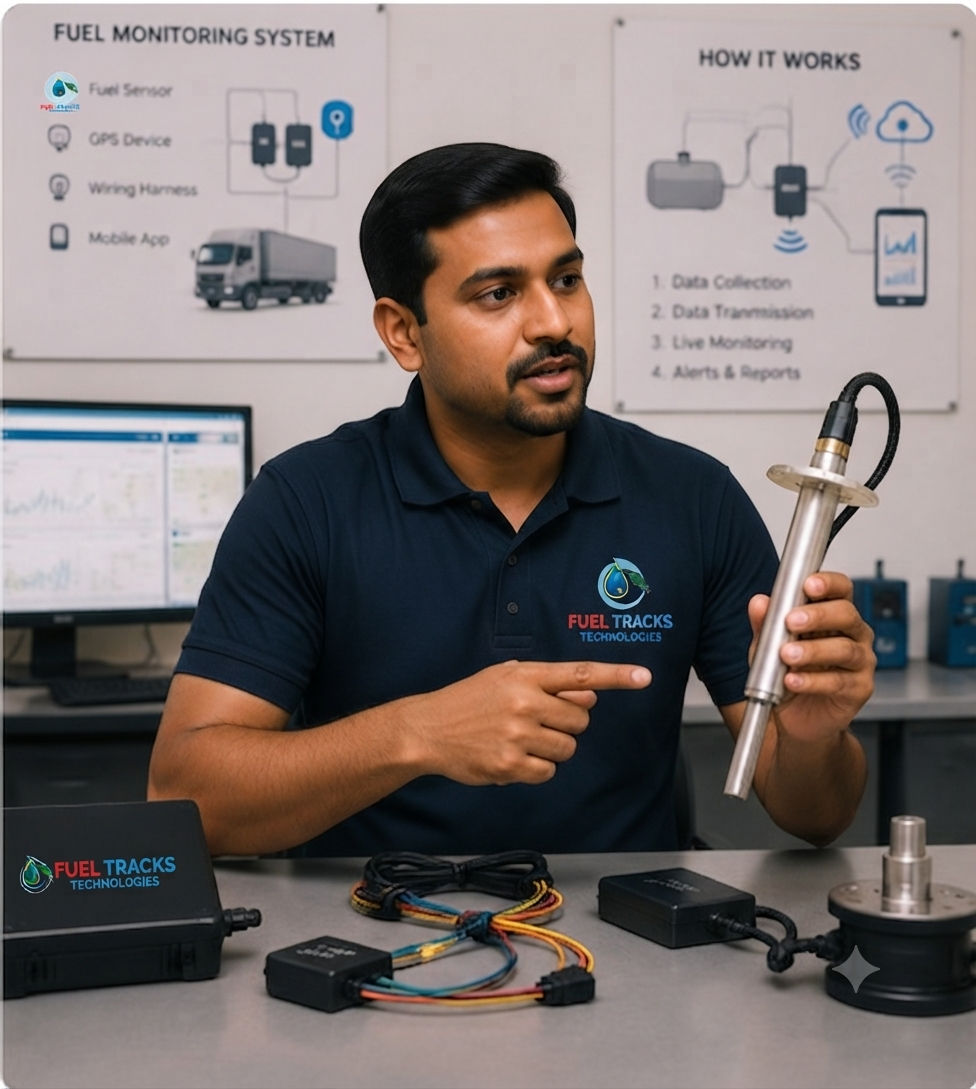
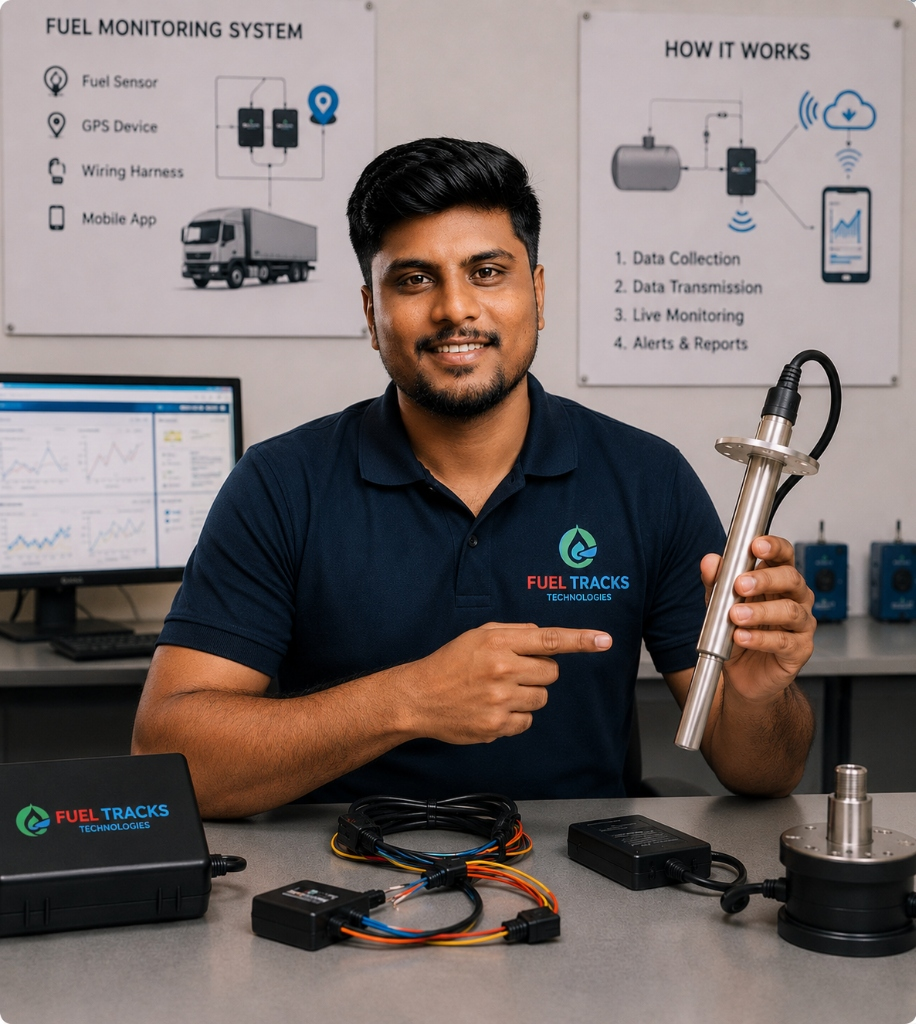
Replace product images: fuelsensor, fuelmoniteringcard, stopfueltheftbeforeithappens

diff --git a/src/components/AboutSection.jsx b/src/components/AboutSection.jsx
@@ -24,8 +24,9 @@ export default function AboutSection() {
               <div className="relative rounded-3xl overflow-hidden shadow-2xl shadow-primary-900/6">
                 <img
                   src="/images/fuelsensor.png"
-                  alt="Fuel sensor device used by FuelTracks for precision fleet monitoring"
-                  className="w-full h-full object-cover"
+                  alt="FuelTracks Fuel Level Sensor BLEYC device for precision fleet fuel monitoring"
+                  className="w-full h-full object-contain"
+                  loading="lazy"
                 />
                 <div className="absolute inset-0 bg-gradient-to-t from-primary-900/8 to-transparent pointer-events-none" />
               </div>